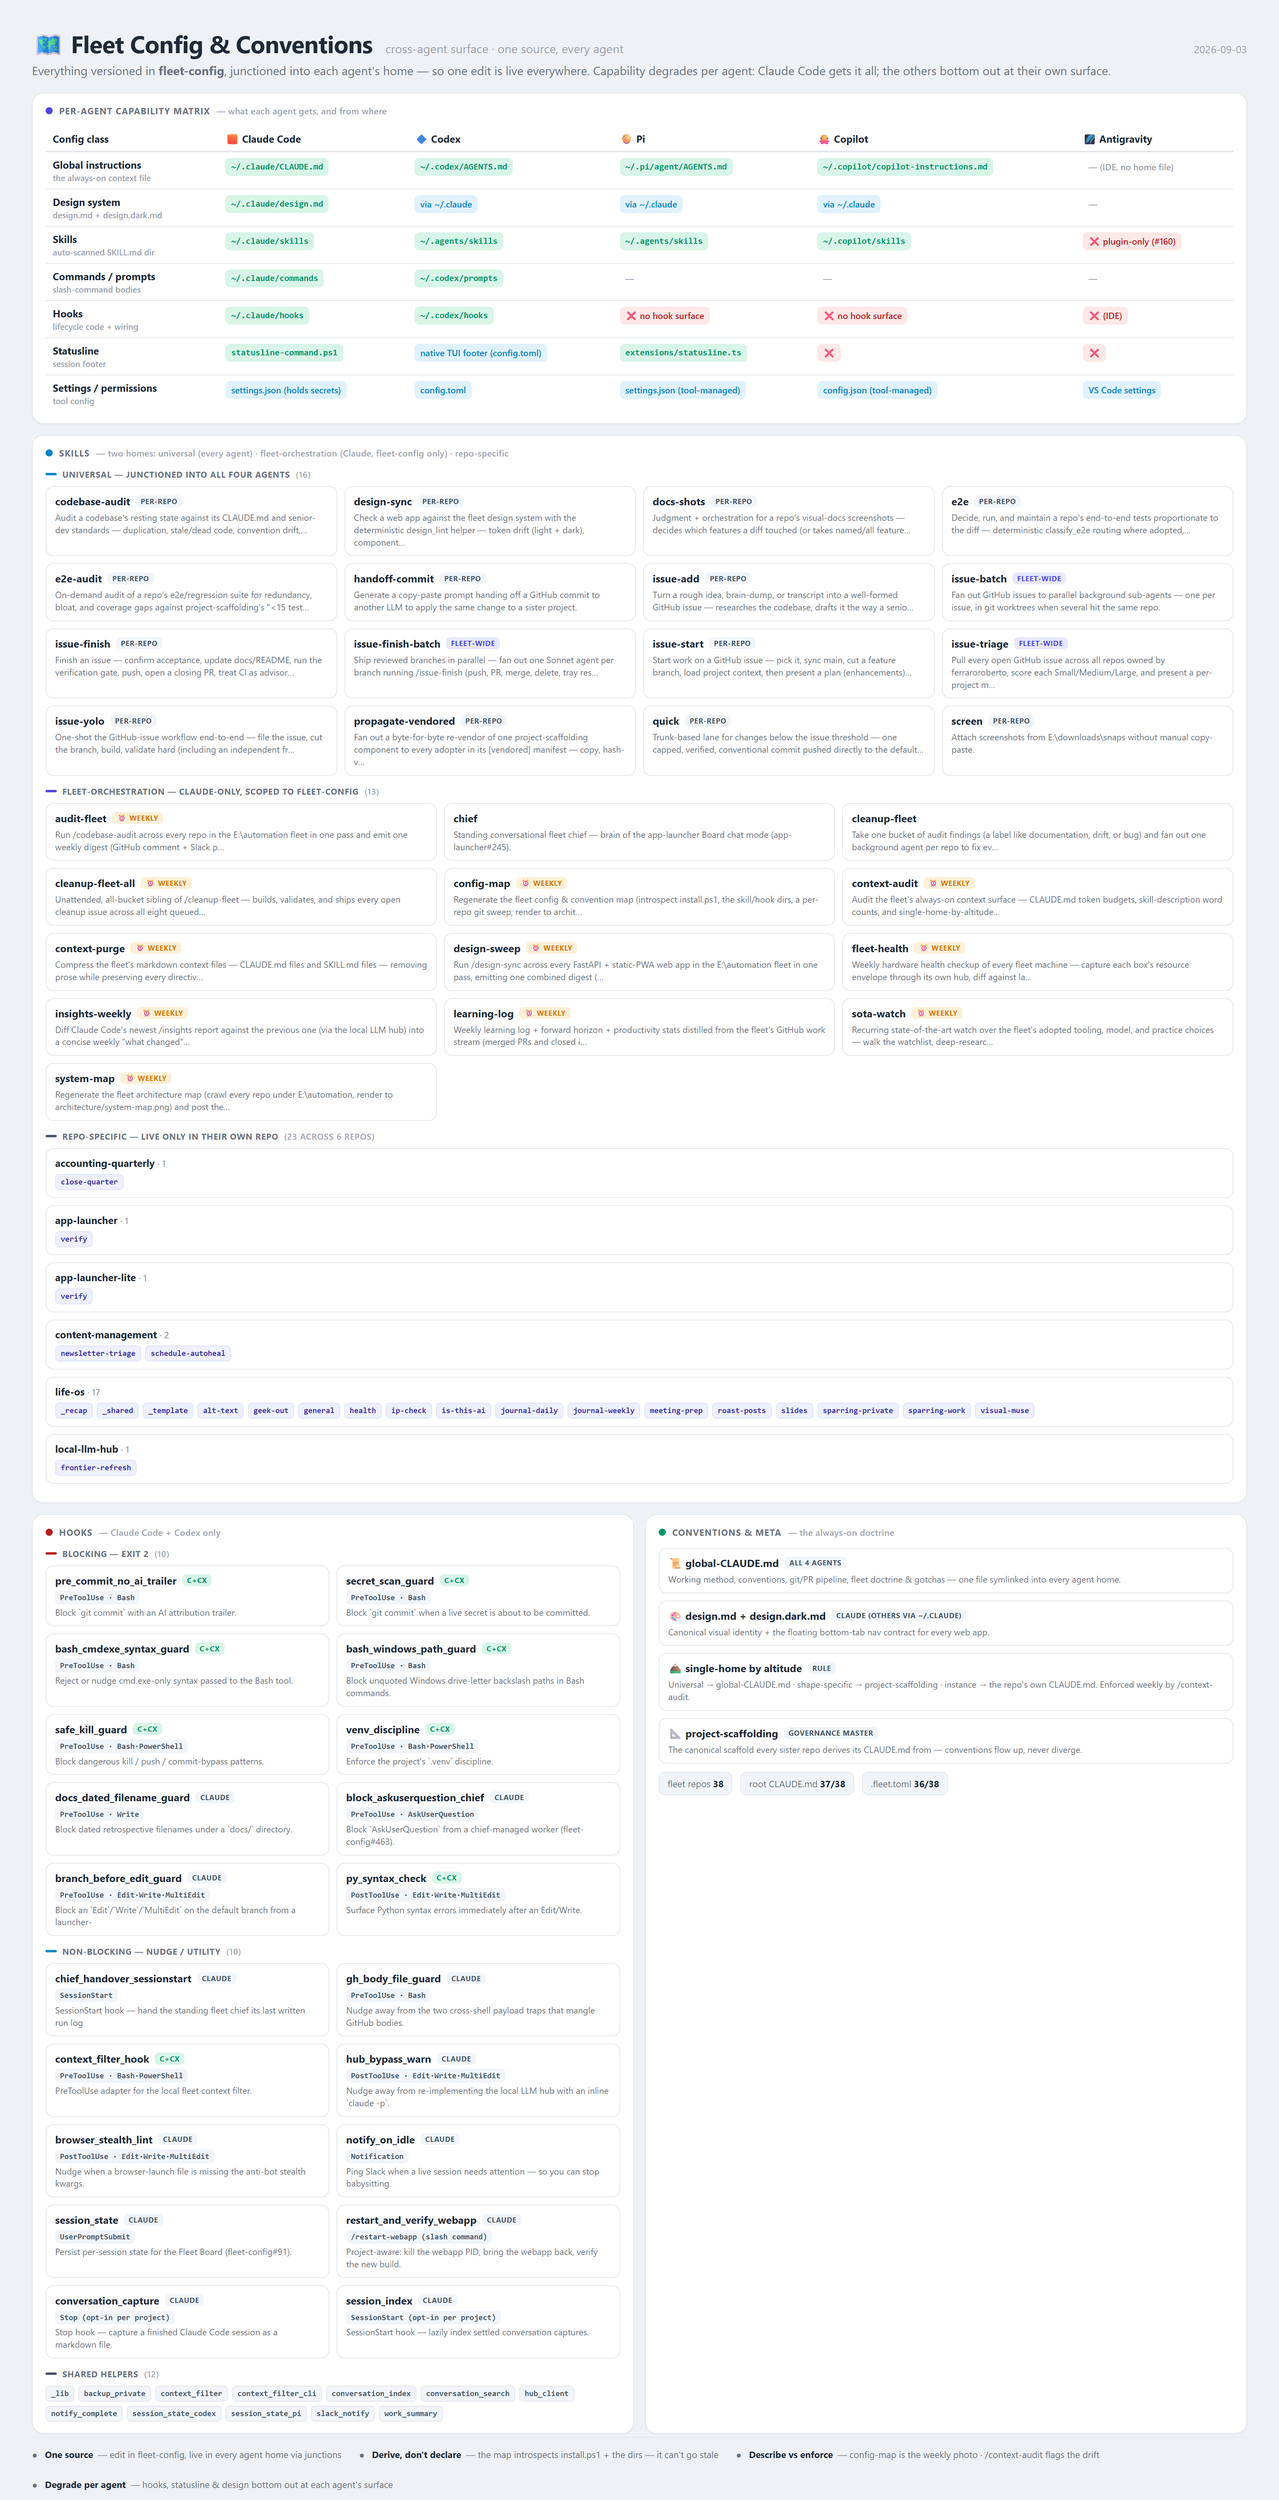
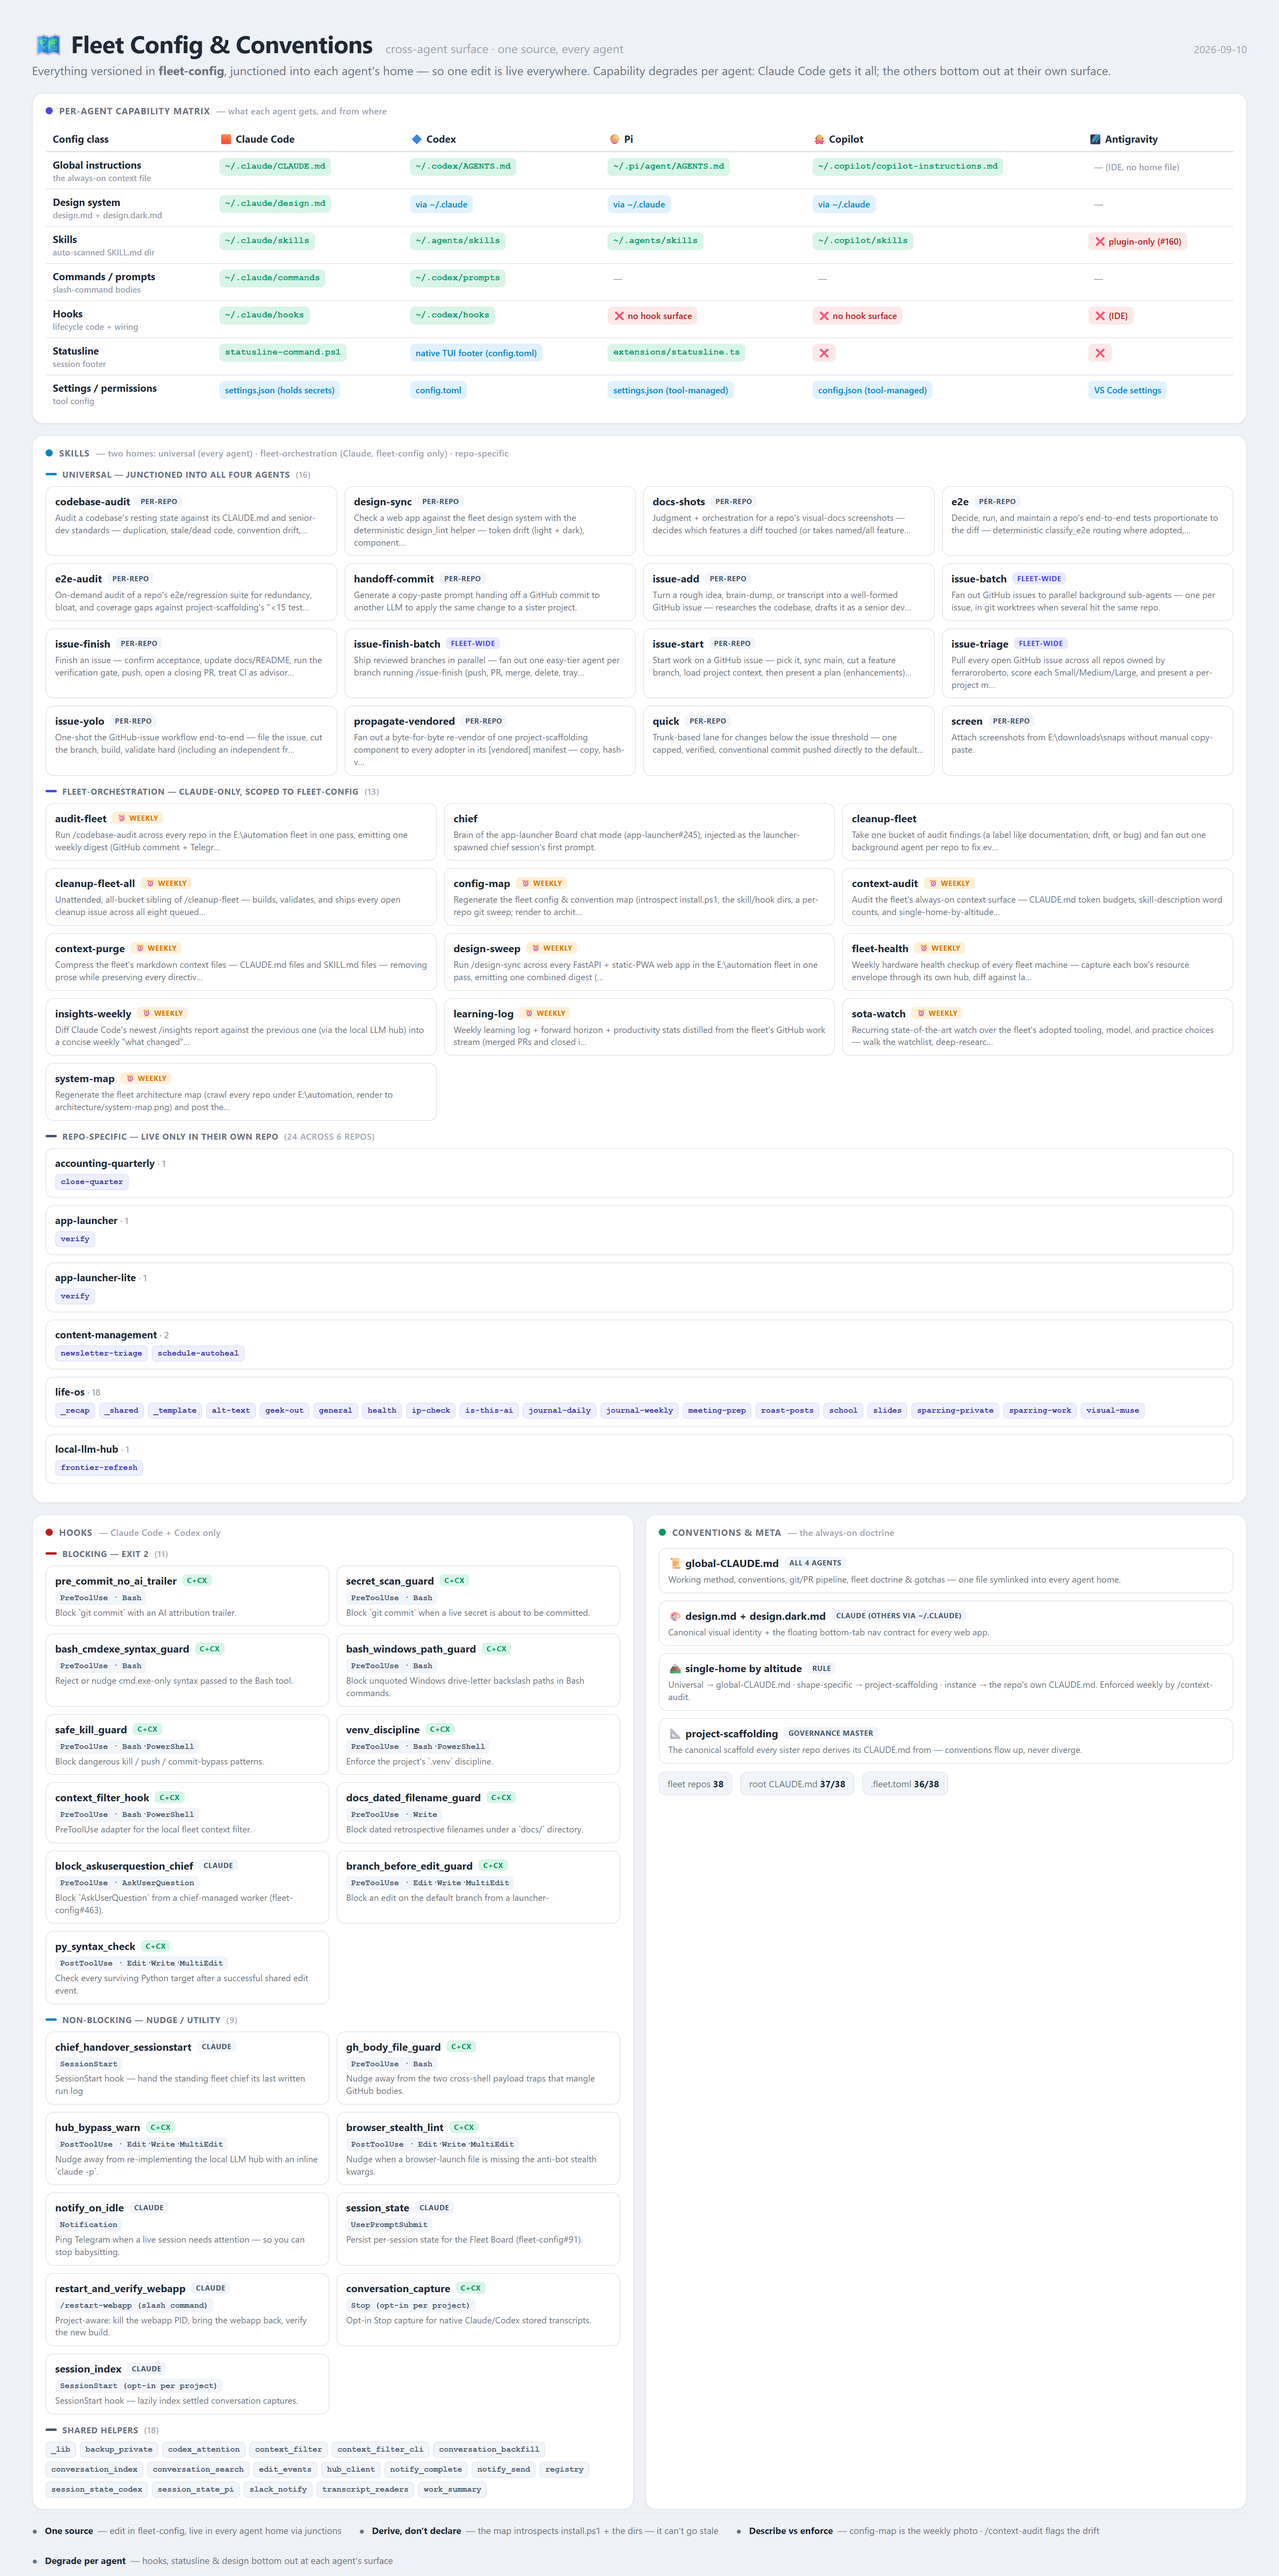
docs: refresh config map (2026-09-11)

diff --git a/architecture/config.data.js b/architecture/config.data.js
@@ -148,7 +148,7 @@ window.CONFIG = {
     },
     {
       "nm": "issue-add",
-      "ds": "Turn a rough idea, brain-dump, or transcript into a well-formed GitHub issue — researches the codebase, drafts it the way a senio…",
+      "ds": "Turn a rough idea, brain-dump, or transcript into a well-formed GitHub issue — researches the codebase, drafts it as a senior dev…",
       "scope": "repo"
     },
     {
@@ -163,7 +163,7 @@ window.CONFIG = {
     },
     {
       "nm": "issue-finish-batch",
-      "ds": "Ship reviewed branches in parallel — fan out one Sonnet agent per branch running /issue-finish (push, PR, merge, delete, tray res…",
+      "ds": "Ship reviewed branches in parallel — fan out one easy-tier agent per branch running /issue-finish (push, PR, merge, delete, tray…",
       "scope": "fleet"
     },
     {
@@ -200,12 +200,12 @@ window.CONFIG = {
   "skills_fleet": [
     {
       "nm": "audit-fleet",
-      "ds": "Run /codebase-audit across every repo in the E:\\automation fleet in one pass and emit one weekly digest (GitHub comment + Telegra…",
+      "ds": "Run /codebase-audit across every repo in the E:\\automation fleet in one pass, emitting one weekly digest (GitHub comment + Telegr…",
       "sched": true
     },
     {
       "nm": "chief",
-      "ds": "Standing conversational fleet chief — brain of the app-launcher Board chat mode (app-launcher#245).",
+      "ds": "Brain of the app-launcher Board chat mode (app-launcher#245), injected as the launcher-spawned chief session's first prompt.",
       "sched": false
     },
     {
@@ -306,6 +306,7 @@ window.CONFIG = {
         "journal-weekly",
         "meeting-prep",
         "roast-posts",
+        "school",
         "slides",
         "sparring-private",
         "sparring-work",
@@ -345,7 +346,7 @@ window.CONFIG = {
       "nm": "gh_body_file_guard",
       "ev": "PreToolUse · Bash",
       "block": false,
-      "reach": "Claude only",
+      "reach": "Claude + Codex",
       "ds": "Nudge away from the two cross-shell payload traps that mangle GitHub bodies."
     },
     {
@@ -379,7 +380,7 @@ window.CONFIG = {
     {
       "nm": "context_filter_hook",
       "ev": "PreToolUse · Bash·PowerShell",
-      "block": false,
+      "block": true,
       "reach": "Claude + Codex",
       "ds": "PreToolUse adapter for the local fleet context filter."
     },
@@ -387,7 +388,7 @@ window.CONFIG = {
       "nm": "docs_dated_filename_guard",
       "ev": "PreToolUse · Write",
       "block": true,
-      "reach": "Claude only",
+      "reach": "Claude + Codex",
       "ds": "Block dated retrospective filenames under a `docs/` directory."
     },
     {
@@ -401,28 +402,28 @@ window.CONFIG = {
       "nm": "branch_before_edit_guard",
       "ev": "PreToolUse · Edit·Write·MultiEdit",
       "block": true,
-      "reach": "Claude only",
-      "ds": "Block an `Edit`/`Write`/`MultiEdit` on the default branch from a launcher-"
+      "reach": "Claude + Codex",
+      "ds": "Block an edit on the default branch from a launcher-"
     },
     {
       "nm": "py_syntax_check",
       "ev": "PostToolUse · Edit·Write·MultiEdit",
       "block": true,
       "reach": "Claude + Codex",
-      "ds": "Surface Python syntax errors immediately after an Edit/Write."
+      "ds": "Check every surviving Python target after a successful shared edit event."
     },
     {
       "nm": "hub_bypass_warn",
       "ev": "PostToolUse · Edit·Write·MultiEdit",
       "block": false,
-      "reach": "Claude only",
+      "reach": "Claude + Codex",
       "ds": "Nudge away from re-implementing the local LLM hub with an inline `claude -p`."
     },
     {
       "nm": "browser_stealth_lint",
       "ev": "PostToolUse · Edit·Write·MultiEdit",
       "block": false,
-      "reach": "Claude only",
+      "reach": "Claude + Codex",
       "ds": "Nudge when a browser-launch file is missing the anti-bot stealth kwargs."
     },
     {
@@ -450,8 +451,8 @@ window.CONFIG = {
       "nm": "conversation_capture",
       "ev": "Stop (opt-in per project)",
       "block": false,
-      "reach": "Claude only",
-      "ds": "Stop hook — capture a finished Claude Code session as a markdown file."
+      "reach": "Claude + Codex",
+      "ds": "Opt-in Stop capture for native Claude/Codex stored transcripts."
     },
     {
       "nm": "session_index",
@@ -471,6 +472,10 @@ window.CONFIG = {
       "ds": "Thin CLI entry point for the daily fleet-private backup engine."
     },
     {
+      "nm": "codex_attention",
+      "ds": "Notify Telegram when Codex is genuinely waiting for user input."
+    },
+    {
       "nm": "context_filter",
       "ds": "Local command-output compression for the fleet hook layer."
     },
@@ -479,12 +484,20 @@ window.CONFIG = {
       "ds": "CLI entrypoint for the fleet context filter."
     },
     {
+      "nm": "conversation_backfill",
+      "ds": "Recover a stored transcript no live Stop hook ever captured (fleet-config#785)."
+    },
+    {
       "nm": "conversation_index",
       "ds": "Tier-1 conversation index — a cheap, searchable layer over raw captures."
     },
     {
       "nm": "conversation_search",
       "ds": "Ranked full-text search over captured conversations (fleet-config#586)."
+    },
+    {
+      "nm": "edit_events",
+      "ds": "Shared normalized edit view + ``apply_patch`` envelope parsing (fleet-config#819)."
     },
     {
       "nm": "hub_client",
@@ -499,6 +512,10 @@ window.CONFIG = {
       "ds": "Fleet-wide Telegram notifier - fire a real, bot-identity notification."
     },
     {
+      "nm": "registry",
+      "ds": "``projects.toml`` registry + notify-target routing (fleet-config#819)."
+    },
+    {
       "nm": "session_state_codex",
       "ds": "Codex adapter for the Fleet Board session-state writer (fleet-config#349)."
     },
@@ -509,6 +526,10 @@ window.CONFIG = {
     {
       "nm": "slack_notify",
       "ds": "DEPRECATED compatibility shim — forwards to :mod:`notify_send` (Telegram)."
+    },
+    {
+      "nm": "transcript_readers",
+      "ds": "Native transcript readers; hook-envelope normalization remains in _lib."
     },
     {
       "nm": "work_summary",
